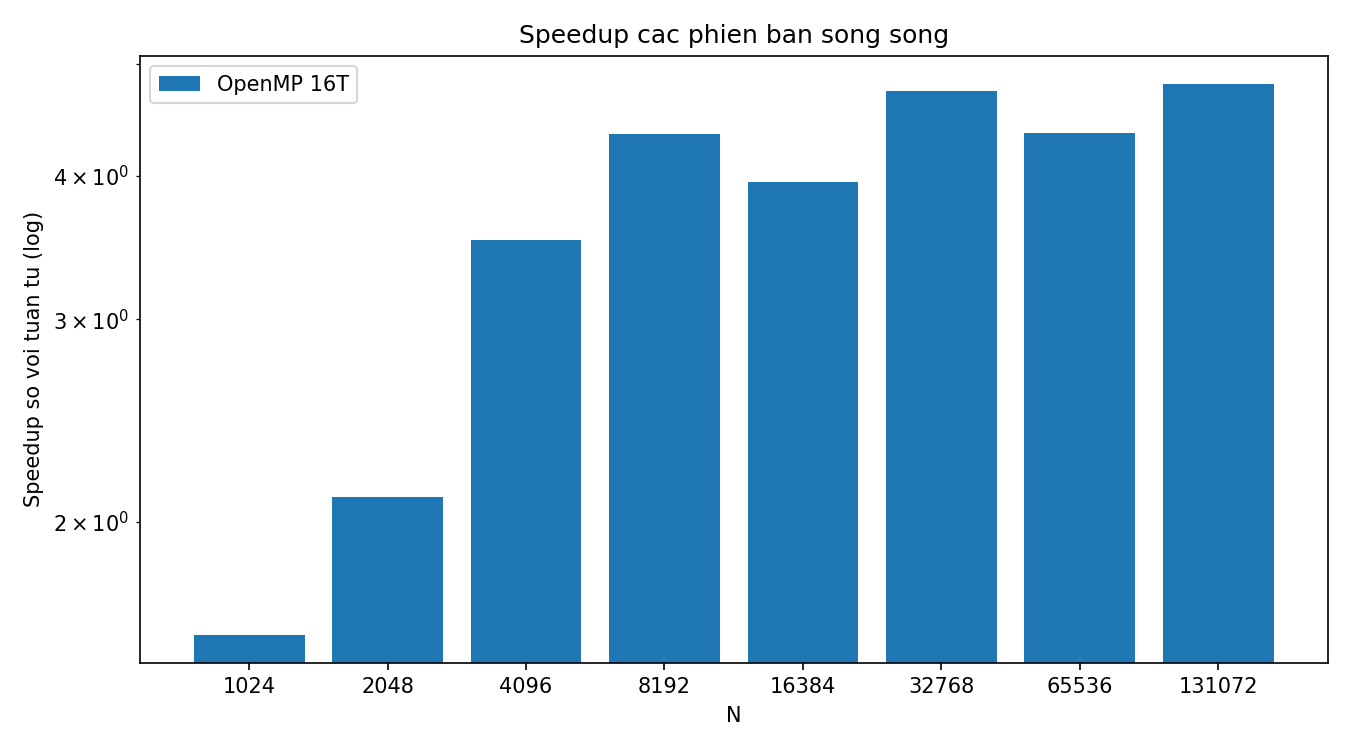
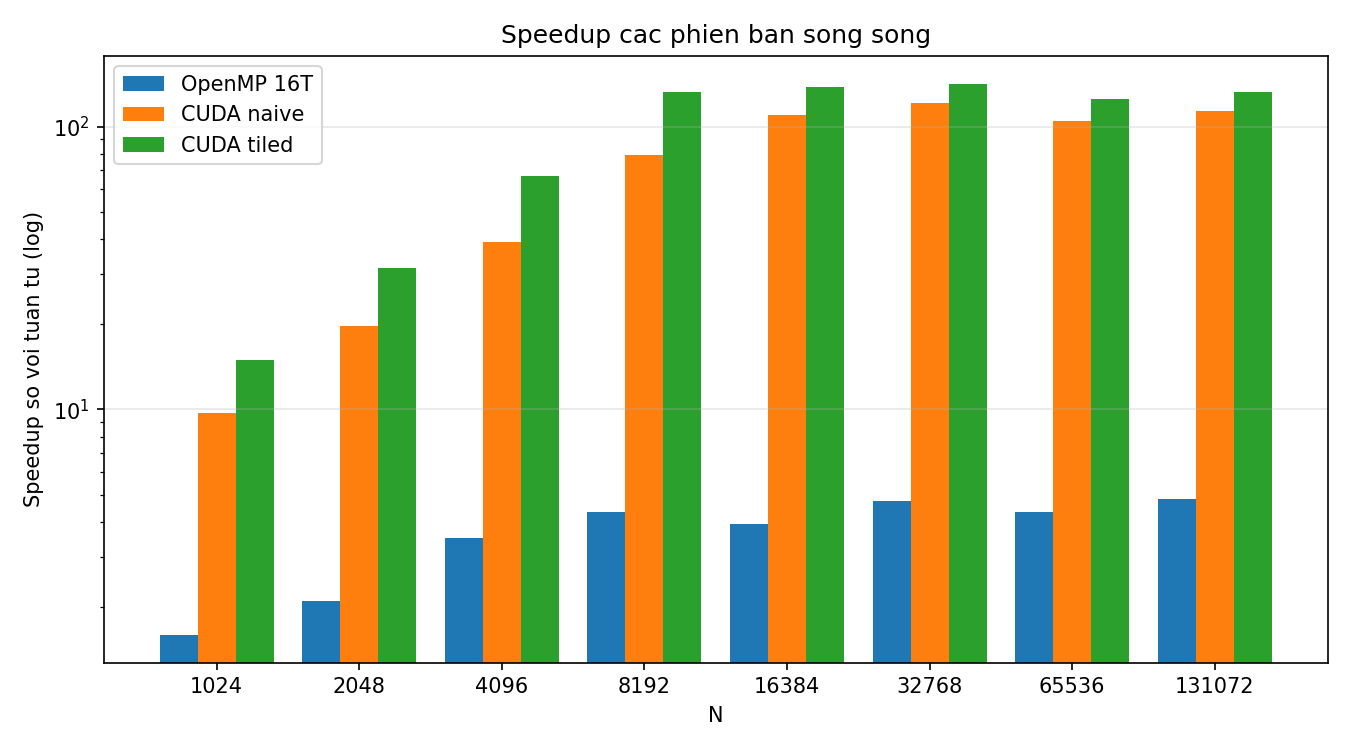
Buoc 8: ve lai do thi tong hop CPU + GPU T4, them block_size.png
python scripts/plot_results.py results/cpu_laptop.csv results/gpu_t4.csv

diff --git a/results/summary.md b/results/summary.md
@@ -1,12 +1,12 @@
-Nguon so lieu: results/cpu_laptop.csv
+Nguon so lieu: results/cpu_laptop.csv, results/gpu_t4.csv
 
 | N | Tuan tu (ms/buoc) | OpenMP 16T (ms) | Speedup OMP | CUDA naive (ms) | CUDA tiled (ms) | Tiled / tuan tu | Tiled / OpenMP |
 |---|---|---|---|---|---|---|---|
-| 1024 | 0.611 | 0.383 | 1.6x | - | - | - | - |
-| 2048 | 2.464 | 1.171 | 2.1x | - | - | - | - |
-| 4096 | 10.006 | 2.844 | 3.5x | - | - | - | - |
-| 8192 | 39.446 | 9.065 | 4.4x | - | - | - | - |
-| 16384 | 158.032 | 40.023 | 3.9x | - | - | - | - |
-| 32768 | 693.889 | 146.524 | 4.7x | - | - | - | - |
-| 65536 | 2742.200 | 629.848 | 4.4x | - | - | - | - |
-| 131072 | 11693.782 | 2431.867 | 4.8x | - | - | - | - |
+| 1024 | 0.611 | 0.383 | 1.6x | 0.063 | 0.041 | 14.9x | 9.3x |
+| 2048 | 2.464 | 1.171 | 2.1x | 0.125 | 0.078 | 31.5x | 15.0x |
+| 4096 | 10.006 | 2.844 | 3.5x | 0.255 | 0.150 | 66.6x | 18.9x |
+| 8192 | 39.446 | 9.065 | 4.4x | 0.498 | 0.298 | 132.3x | 30.4x |
+| 16384 | 158.032 | 40.023 | 3.9x | 1.443 | 1.148 | 137.6x | 34.9x |
+| 32768 | 693.889 | 146.524 | 4.7x | 5.737 | 4.891 | 141.9x | 30.0x |
+| 65536 | 2742.200 | 629.848 | 4.4x | 26.209 | 21.873 | 125.4x | 28.8x |
+| 131072 | 11693.782 | 2431.867 | 4.8x | 103.057 | 88.551 | 132.1x | 27.5x |
